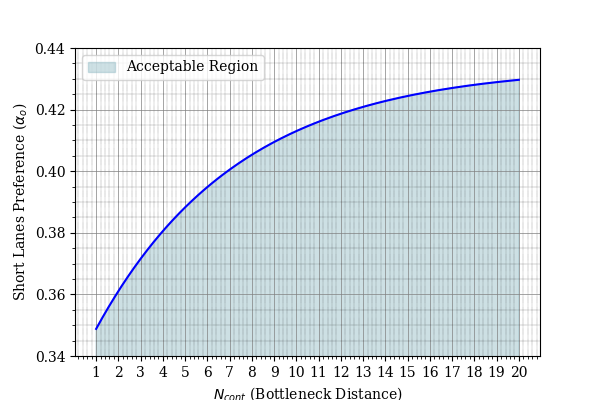
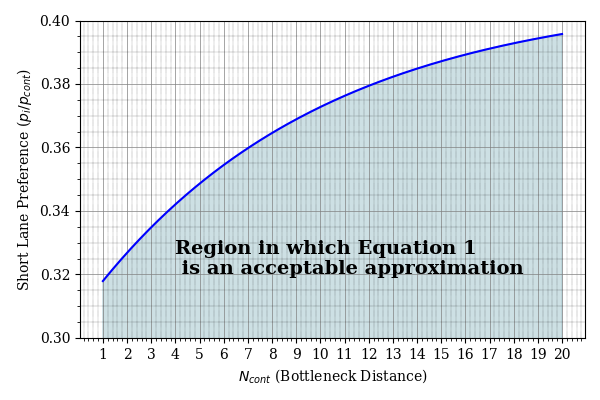
update script and plots

Changed region(s): [[0.0, 0.03, 0.99, 1.0]]

diff --git a/simulation-queuing-theory.py b/simulation-queuing-theory.py
@@ -379,7 +379,7 @@ for N in Ns:
         p_short = alpha
         p_through = 1 - alpha
         expected_val = sum(
-            k * (nbinom.pmf(k, N, p_short) + nbinom.pmf(k, N+1, p_through))
+            k * (nbinom.pmf(k, N+1, p_short) + nbinom.pmf(k, N+1, p_through))
             for k in range(N+1)
         )
         ref_val = (N+1) * alpha / (1 - alpha)
@@ -427,15 +427,21 @@ alpha_fit = fit_func(N_fine, *popt)
 plt.rcParams['font.family'] = 'Serif'
 plt.figure(figsize=(6, 4))
 plt.plot(N_fine, alpha_fit, '-', color='blue')
-plt.fill_between(N_fine, 0, alpha_fit, color="#84b2bd", alpha=0.4, label='Acceptable Region')
+plt.fill_between(N_fine, 0, alpha_fit, color="#84b2bd", alpha=0.4)
+
+# Add embedded text label on shaded area
+x_text = 4  # X-position of text (adjust as needed)
+y_text = 0.32  # Y-position of text (adjust as needed)
+plt.text(x_text, y_text, "Region in which Equation 1 \n is an acceptable approximation", fontsize=14, fontweight='bold', color='black')
+
+# Axis labels and ticks
 plt.xlabel(r"$N_{cont}$ (Bottleneck Distance)")
-plt.ylabel(r"Short Lanes Preference ($\alpha_o$)")
-plt.ylim(0.34, 0.44)
-plt.xticks(np.arange(int(N_fine.min()), int(N_fine.max()) + 1, 1))  # Force integer ticks on x-axis
+plt.ylabel(r"Short Lane Preference ($p_i/p_{cont}$)")
+plt.ylim(0.30, 0.40)
+plt.xticks(np.arange(int(N_fine.min()), int(N_fine.max()) + 1, 1))
 plt.minorticks_on()
 plt.grid(which='minor', linestyle=':', linewidth='0.3', color='black')
 plt.grid(which='major', linestyle='-', linewidth='0.5', color='gray')
-plt.legend()
-plt.savefig('AlphaThreshold.png')
 plt.tight_layout()
+plt.savefig('AlphaThreshold.png')
 plt.show()
